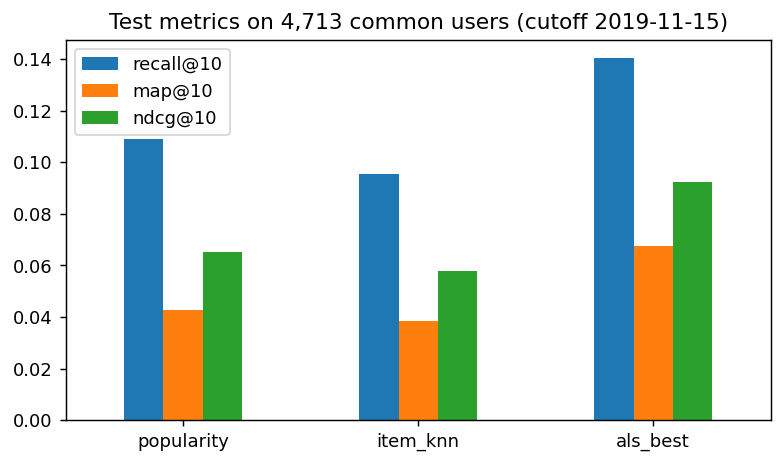
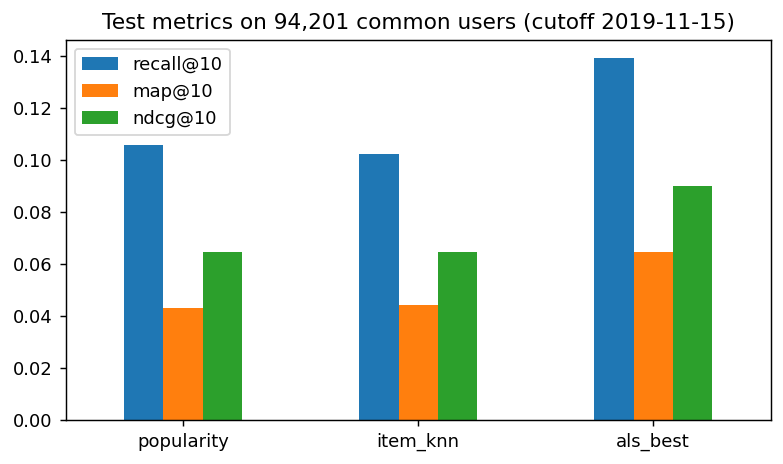
results: notebook 06 on the full data (FRACTION=1.0)
Kaggle notebook bdm-06-recommender version 4, fetched by run 44261659177.

Claude-Session: https://claude.ai/code/session_018dPR2wXi9PCxfS87gbsHZc

diff --git a/docs/RESULTS.md b/docs/RESULTS.md
@@ -89,20 +89,20 @@ FRACTION = **1**, chạy lúc `2026-11-17T23:20:17.965464+00:00`
 
 ## RQ5 - Hệ gợi ý - `results/06_recommender.json`
 
-FRACTION = **0.05**, chạy lúc `2026-11-17T21:27:53.201417+00:00`
+FRACTION = **1**, chạy lúc `2026-11-18T06:57:19.056932+00:00`
 
 | Chỉ số | Giá trị | Nguồn |
 |---|---|---|
 | Cutoff / validation cutoff | 2019-11-15 / 2019-11-08 | `cutoff, val_cutoff` |
-| User đánh giá / user chung | 10,298 / 4,713 | `n_eval_users, n_common_users` |
-| NDCG@10 popularity | 0.06521 | `models.popularity.ndcg@10` |
-| NDCG@10 item-kNN | 0.05788 | `models.item_knn.ndcg@10` |
-| NDCG@10 ALS | 0.09218 | `models.als_best.ndcg@10` |
-| Recall@10 ALS | 0.1405 | `models.als_best.recall@10` |
+| User đánh giá / user chung | 206,186 / 94,201 | `n_eval_users, n_common_users` |
+| NDCG@10 popularity | 0.06462 | `models.popularity.ndcg@10` |
+| NDCG@10 item-kNN | 0.0645 | `models.item_knn.ndcg@10` |
+| NDCG@10 ALS | 0.08987 | `models.als_best.ndcg@10` |
+| Recall@10 ALS | 0.1392 | `models.als_best.recall@10` |
 | ALS chọn (rank, alpha) | (64, 10) | `models.als_best.rank/alpha` |
-| ALS - popularity: diff [CI95] | +0.0270 [+0.0205, +0.0334], p=0 | `significance_ndcg@10_paired_bootstrap` |
-| ALS - item-kNN: diff [CI95] | +0.0343 [+0.0284, +0.0405], p=0 | `significance_ndcg@10_paired_bootstrap` |
-| item-kNN - popularity: diff [CI95] | -0.0073 [-0.0131, -0.0015], p=0.997 | `significance_ndcg@10_paired_bootstrap` |
+| ALS - popularity: diff [CI95] | +0.0253 [+0.0233, +0.0273], p=0 | `significance_ndcg@10_paired_bootstrap` |
+| ALS - item-kNN: diff [CI95] | +0.0254 [+0.0236, +0.0273], p=0 | `significance_ndcg@10_paired_bootstrap` |
+| item-kNN - popularity: diff [CI95] | -0.0001 [-0.0020, +0.0018], p=0.551 | `significance_ndcg@10_paired_bootstrap` |
 
 ## Phụ - Phân khúc và phễu - `results/07_segmentation_funnel.json`
 
